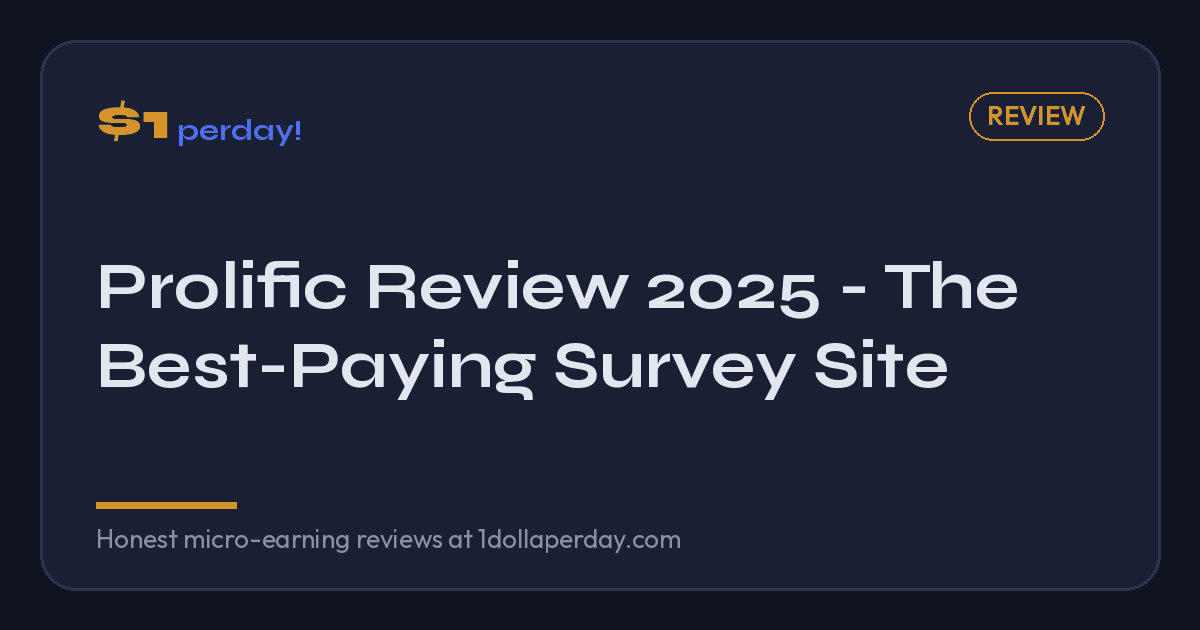
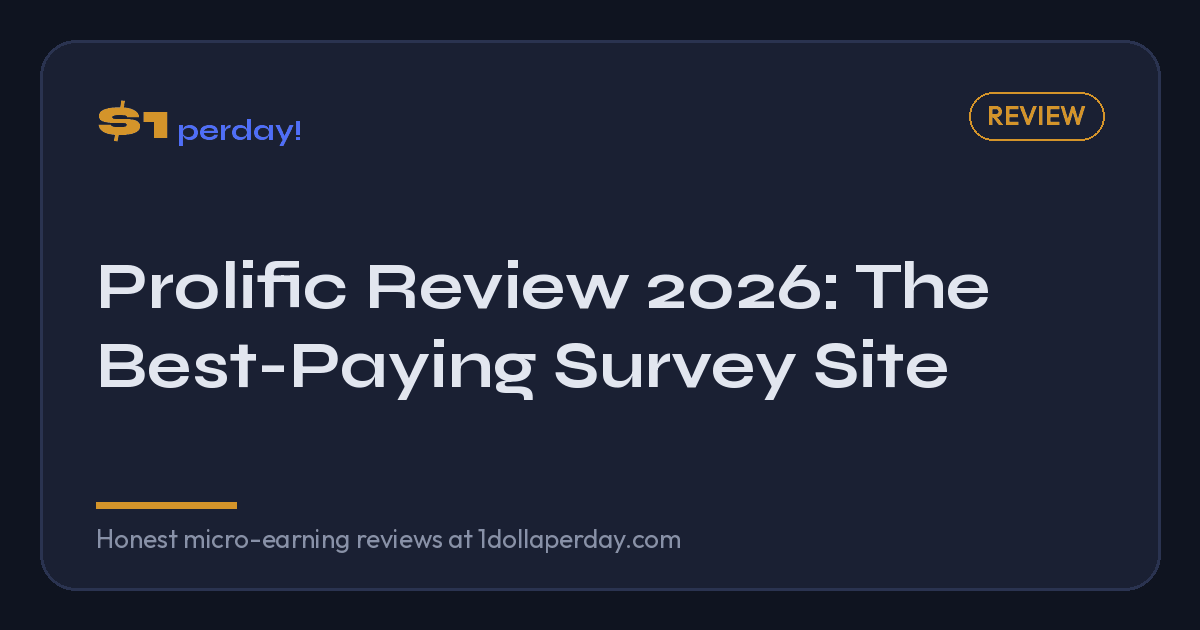
Correct Prolific review: £6/$6 cash-out minimum, £6/$8 hourly floor and £9/$12 recommendation from Prolific's help centres

Changed region(s): [[0.6475, 0.4222, 0.8633, 0.5127]]

diff --git a/reviews/prolific.html b/reviews/prolific.html
@@ -19,13 +19,13 @@
     <meta charset="UTF-8">
     <meta name="viewport" content="width=device-width, initial-scale=1.0">
 
-    <title>Prolific Review 2025 - The Best-Paying Survey Site | $1perday!</title>
+    <title>Prolific Review 2026: The Best-Paying Survey Site | $1perday!</title>
     <meta name="description" content="Honest Prolific review 2025. Why academics and researchers pay 5x more than typical survey sites. Real earnings, how to get studies, and whether you qualify.">
     <meta name="keywords" content="Prolific review, Prolific legit, Prolific surveys, best paying surveys, academic surveys, Prolific 2025">
 
     <link rel="canonical" href="https://1dollaperday.com/reviews/prolific">
 
-    <meta property="og:title" content="Prolific Review 2025 - The Best-Paying Survey Site">
+    <meta property="og:title" content="Prolific Review 2026: The Best-Paying Survey Site">
     <meta property="og:description" content="Why Prolific pays 5x more than other survey sites, and how to maximize your chances of getting studies.">
     <meta property="og:type" content="article">
     <meta property="og:url" content="https://1dollaperday.com/reviews/prolific">
@@ -33,9 +33,9 @@
     <meta property="og:image" content="https://1dollaperday.com/assets/og/reviews--prolific.png">
     <meta property="og:image:width" content="1200">
     <meta property="og:image:height" content="630">
-    <meta property="og:image:alt" content="Prolific Review 2025 - The Best-Paying Survey Site">
+    <meta property="og:image:alt" content="Prolific Review 2026: The Best-Paying Survey Site">
     <meta name="twitter:card" content="summary_large_image">
-    <meta name="twitter:title" content="Prolific Review 2025 - The Best-Paying Survey Site">
+    <meta name="twitter:title" content="Prolific Review 2026: The Best-Paying Survey Site">
     <meta name="twitter:description" content="Why Prolific pays 5x more than other survey sites, and how to maximize your chances of getting studies.">
     <meta name="twitter:image" content="https://1dollaperday.com/assets/og/reviews--prolific.png">
 
@@ -67,7 +67,7 @@
         },
         "reviewBody": "Prolific is hands-down the best-paying survey platform available. Academic researchers pay fair rates, treat participants with respect, and studies are actually interesting. The only downside is limited availability.",
         "datePublished": "2025-01-01",
-        "dateModified": "2026-02-03",
+        "dateModified": "2026-10-23",
         "publisher": {"@type": "Organization", "name": "$1perday!"}
     }
     </script>
@@ -138,7 +138,7 @@
                 
                 <header class="review-header">
                     <div class="review-title-section">
-                        <span class="last-updated">Updated January 2025</span>
+                        <span class="last-updated">Updated October 2026</span>
                         <h1>Prolific Review</h1>
                         <p class="article-meta">Category: Surveys / Academic Research</p>
                     </div>
@@ -166,7 +166,7 @@
                             </div>
                             <div class="quick-fact">
                                 <span class="quick-fact-label">Min Payout</span>
-                                <span class="quick-fact-value">£5 (~$6.50)</span>
+                                <span class="quick-fact-value">£6 or $6</span>
                             </div>
                             <div class="quick-fact">
                                 <span class="quick-fact-label">Payment Methods</span>
@@ -200,7 +200,7 @@
                         <p>Prolific is a UK-based platform that connects <strong>academic researchers</strong> with study participants. Universities, research institutions, and PhD students use it to recruit real people for legitimate scientific studies. This changes everything about the experience:</p>
 
                         <ul>
-                            <li>Researchers <em>must</em> pay at least £6/hour (~$8/hour minimum)</li>
+                            <li>Researchers <em>must</em> pay at least £6/hour or $8/hour</li>
                             <li>No screening out mid-survey - if you qualify, you complete it and get paid</li>
                             <li>Studies are often genuinely interesting (psychology, economics, social science)</li>
                             <li>Participants are treated as valuable contributors, not data-harvesting targets</li>
@@ -223,7 +223,7 @@
                             <li><strong>Wait for studies:</strong> When a researcher needs participants matching your profile, you'll see available studies on your dashboard.</li>
                             <li><strong>Accept a study:</strong> Click to reserve your spot. You'll typically have a set time window to complete it.</li>
                             <li><strong>Complete the study:</strong> Most involve questionnaires, but some include games, reading tasks, or watching videos.</li>
-                            <li><strong>Get paid:</strong> Payment is usually approved within 24-48 hours. Cash out via PayPal once you hit £5.</li>
+                            <li><strong>Get paid:</strong> Payment is usually approved within 24-48 hours. Cash out to PayPal once your balance reaches £6 or $6 (once a day; 72 hours apart for your first few cash-outs).</li>
                         </ol>
 
                         <h3>Types of Studies</h3>
@@ -238,7 +238,7 @@
 
                         <div class="info-box success">
                             <p class="info-box-title">Why Pay Is So Much Better</p>
-                            <p style="margin-bottom: 0;">Prolific enforces a minimum pay rate of £6/hour (~$8/hour). Most researchers actually pay £8-12/hour ($10-15/hour) because competitive pay = faster recruitment = faster research. Compare that to typical survey sites where you're lucky to earn $2-3/hour.</p>
+                            <p style="margin-bottom: 0;">Prolific enforces a minimum pay rate of £6/hour or $8/hour, and recommends researchers pay at least £9/hour or $12/hour because competitive pay means faster recruitment. Compare that to typical survey sites where you're lucky to earn $2-3/hour.</p>
                         </div>
                     </section>
 
@@ -298,7 +298,7 @@
                                     <li>No mid-survey disqualifications</li>
                                     <li>Ethical treatment of participants</li>
                                     <li>Studies are actually interesting</li>
-                                    <li>Low £5 minimum payout</li>
+                                    <li>Low £6/$6 minimum payout</li>
                                     <li>Fast payment processing (1-2 days)</li>
                                     <li>Contributing to real scientific research</li>
                                     <li>Excellent reputation and reliability</li>
@@ -399,7 +399,7 @@
                                     </tr>
                                     <tr>
                                         <td>Min Payout</td>
-                                        <td>~$6.50</td>
+                                        <td>£6 / $6</td>
                                         <td>$5</td>
                                         <td>$25 (PayPal)</td>
                                     </tr>
@@ -468,6 +468,10 @@
                     
                 </div>
 
+                <div class="sidebar-widget">
+                    <h3>Sources</h3>
+                    <p class="text-small">Pay floor and cash-out rules checked against Prolific's <a href="https://participant-help.prolific.com/en/article/3bfbb2" target="_blank" rel="noopener nofollow">participant</a> and <a href="https://researcher-help.prolific.com/en/articles/445266-how-much-should-i-pay-participants" target="_blank" rel="noopener nofollow">researcher</a> help centres on 23 October 2026.</p>
+                </div>
                 <div class="sidebar-widget">
                     <h3>In This Review</h3>
                     <ul>

diff --git a/reviews/index.html b/reviews/index.html
@@ -551,7 +551,7 @@
                                 </div>
                                 <p class="review-card-summary">The best-paying survey platform. Academic researchers pay 5x more than typical survey sites. Studies are interesting and treat participants with respect.</p>
                                 <div class="review-card-meta">
-                                    <span>Min Payout: £5</span>
+                                    <span>Min Payout: £6 / $6</span>
                                     <span>Payment: PayPal</span>
                                 </div>
                                 <a href="prolific" class="review-card-link">Read Full Review &rarr;</a>
